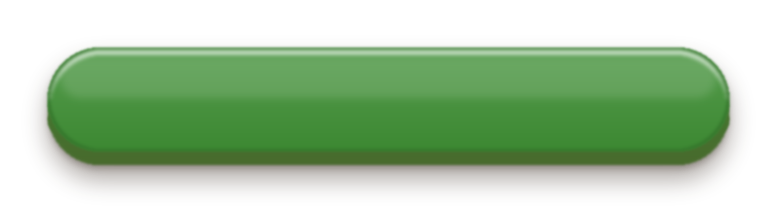
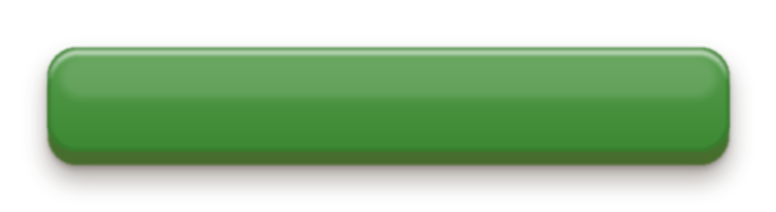
Hauptmenü: Namensschild mit denselben Ecken wie die Knöpfe
Claude-Session: https://claude.ai/code/session_01PSZ5jd79U9dVsko8UYPXXi

diff --git a/Tools/menu/menu_art.py b/Tools/menu/menu_art.py
@@ -372,7 +372,7 @@ def main():
         'SmallButtonHot': lambda: button('hot', 230, 54, SMALL_LIP),
         'SmallButtonDown': lambda: button('down', 230, 54, SMALL_LIP),
         'Note': lambda: board(460, 112, (mix(GREEN, WHITE, 0.12), shade(GREEN, 0.95)), NOTE_LIP, 22, gloss=28),
-        'Ribbon': lambda: board(340, 58, (mix(GREEN, WHITE, 0.12), shade(GREEN, 0.95)), BUTTON_LIP, 29, gloss=34),
+        'Ribbon': lambda: board(340, 58, (mix(GREEN, WHITE, 0.12), shade(GREEN, 0.95)), BUTTON_LIP, round(58 * CORNER), gloss=34),
         'Logo': logo,
     }
     for name, paint in pieces.items():
